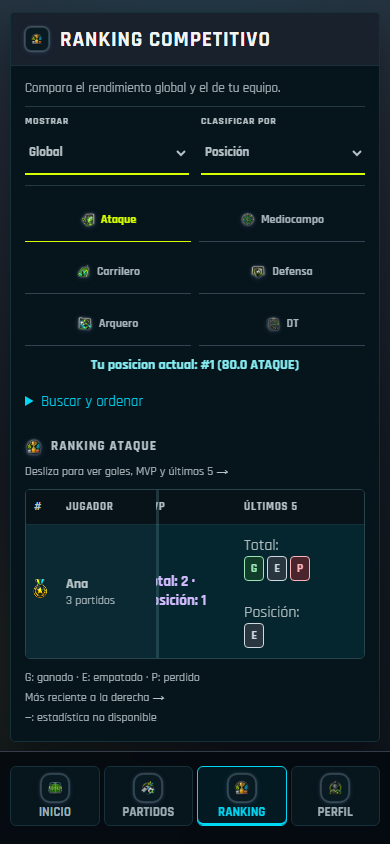
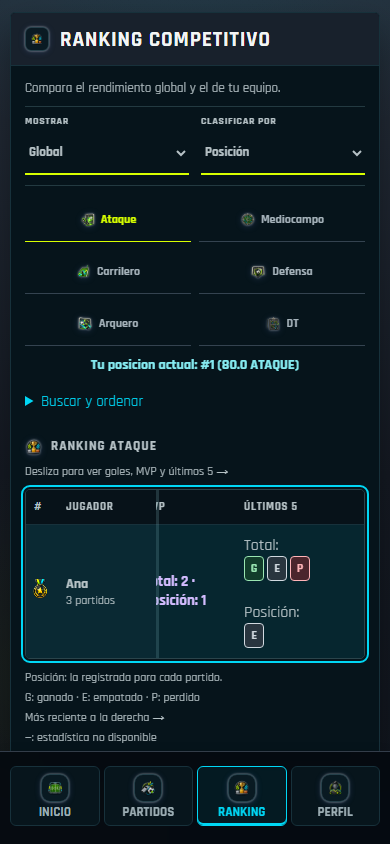
fix(ranking): explain recorded position scope

Changed region(s): [[0.0615, 0.7701, 0.5538, 0.8934], [0.9231, 0.5545, 0.9538, 0.8009], [0.0308, 0.5853, 0.0615, 0.7701]]

diff --git a/e2e/18-ranking-goals.spec.ts b/e2e/18-ranking-goals.spec.ts
@@ -16,6 +16,7 @@ for (const width of [390, 1440]) {
     await page.goto('/leaderboard');
     await expect(page.locator('.leaderboard__goals').first()).toHaveText('5');
     await page.getByLabel('Clasificar por').selectOption('ROLE');
+    await expect(page.getByText('Posición: la registrada para cada partido.')).toBeVisible();
     await expect(page.locator('.leaderboard__goals').first()).toContainText('Total: 5');
     await expect(page.locator('.leaderboard__goals').first()).toContainText('Posición: 0');
     await expect(page.locator('.leaderboard__mvp').first()).toContainText('Total: 2');
@@ -29,6 +30,11 @@ for (const width of [390, 1440]) {
     expect(await page.evaluate(() => document.documentElement.scrollWidth <= innerWidth)).toBe(true);
     const table = page.getByRole('region', { name: 'Estadísticas de jugadores, desplazamiento horizontal' });
     await table.scrollIntoViewIfNeeded();
+    if (width === 390) {
+      await table.focus();
+      await page.keyboard.press('ArrowRight');
+      await expect.poll(() => table.evaluate(element => element.scrollLeft)).toBeGreaterThan(0);
+    }
     await table.evaluate(element => { element.scrollLeft = element.scrollWidth; });
     const directory = join(process.cwd(), 'docs', 'ranking-stats-2026-11-17');
     mkdirSync(directory, { recursive: true });

diff --git a/src/app/features/ratings/pages/leaderboard/leaderboard.page.html b/src/app/features/ratings/pages/leaderboard/leaderboard.page.html
@@ -101,6 +101,7 @@
           [emptyMessage]="emptyMessage"
           [showRole]="selectedScope === 'PLATFORM'"
             [resultsScopeLabel]="selectedScope === 'TEAM' ? 'del equipo' : 'de trayectoria'"
+            [showPositionScope]="selectedScope === 'PLATFORM' && selectedMode === 'ROLE'"
           [currentPlayerId]="currentUserId">
         </app-metallic-leaderboard>
         <button

diff --git a/src/app/shared/ui/metallic-leaderboard/metallic-leaderboard.component.ts b/src/app/shared/ui/metallic-leaderboard/metallic-leaderboard.component.ts
@@ -32,6 +32,7 @@ export class MetallicLeaderboardComponent {
   @Input() currentPlayerId: string | null = null;
   @Input() showRole = false;
   @Input() resultsScopeLabel = 'de trayectoria';
+  @Input() showPositionScope = false;
   @Input() emptyMessage = 'Todavía no hay datos para este ranking.';
 
   readonly podiumIconAsset = `${this.iconBase}/ic_nav_ranking_96.png`;

diff --git a/src/app/shared/ui/metallic-leaderboard/metallic-leaderboard.component.html b/src/app/shared/ui/metallic-leaderboard/metallic-leaderboard.component.html
@@ -54,6 +54,7 @@
     </table>
   </div>
   <div *ngIf="rows.length > 0" class="leaderboard__legend">
+    <span *ngIf="showPositionScope">Posición: la registrada para cada partido.</span>
     <span>G: ganado · E: empatado · P: perdido</span>
     <span>Más reciente a la derecha →</span>
     <span>—: estadística no disponible</span>

diff --git a/docs/ranking-stats-2026-11-17/verificacion.md b/docs/ranking-stats-2026-11-17/verificacion.md
@@ -4,10 +4,14 @@ Fecha: 17/11/2026. Rama `feature/ranking-stats-20261117` en frontend y backend; 
 
 La API de ranking global/por rol y la de equipo añaden goles, MVP y resultados sin retirar campos anteriores ni cambiar el orden, rangos o autorización existentes. Global muestra trayectoria; el filtro por posición muestra trayectoria y posición; equipo usa únicamente historiales asociados al equipo. El histórico se identifica por la posición y el equipo guardados para cada participación, no por la posición actual del perfil.
 
+La posición es la registrada en la participación al cierre. En partidos con arquero rotativo no representa los minutos o cambios efectivos de posición; no se atribuyen estadísticas a posiciones que no consten en el historial. La interfaz explica que utiliza la posición registrada.
+
 Los goles proceden de `PlayerHistory` para partidos FINALIZADO, evitando duplicar datos de los distintos ratings. MVP cuenta únicamente ganadores oficiales actualmente resueltos en `Match.mvpUser`; una votación pendiente puede actualizar la cifra más tarde. Los últimos cinco resultados usan el resultado histórico del jugador; se ordenan por fecha programada y luego ID, del más antiguo al más reciente, con el último a la derecha. El cierre actual registra historiales solo para participantes confirmados, pero no se auditaron individualmente los datos históricos. La columna de resultados no recalcula marcadores antiguos.
 
 Sin historial para un alcance se informa null, distinto de cero con historial. Si hay una posición histórica no clasificable, los datos por posición quedan desconocidos; el total de trayectoria se conserva. La UI acepta también respuestas antiguas sin los campos. Dos consultas adicionales en lote por ranking, no una solicitud por jugador; el listado de resultados usa una ventana de hasta cinco registros por jugador y posición, antes de seleccionar los cinco finales.
 
-Verificación: 738 pruebas backend completas en H2 sin fallos; prueba adicional del orden con fecha igual e ID; dos pruebas de repositorio en PostgreSQL 18 temporal con datos sintéticos, sin fallos. Flyway advierte que su soporte probado llega a PostgreSQL 16. Frontend: 279 unitarias, lint y build correctos, aviso preexistente Stencil `empty-glob`; dos recorridos Chromium simulados a 390/1440 prueban global, posición y equipo, más MVP y resultados. Capturas `ranking-posicion-*.png`. PostgreSQL y frontend temporales se detuvieron.
+Verificación: 739 pruebas backend completas en H2 sin fallos ni omisiones, incluido orden con fecha igual e ID; dos pruebas de repositorio en PostgreSQL 18 temporal con datos sintéticos, sin fallos. Flyway advierte que su soporte probado llega a PostgreSQL 16. Frontend: 279 unitarias completas, 17 dirigidas tras el último ajuste, lint y build correctos, aviso preexistente Stencil `empty-glob`; dos recorridos Chromium simulados a 390/1440 prueban global, posición, equipo, MVP, resultados y desplazamiento con teclado. Capturas `ranking-posicion-*.png`. PostgreSQL y frontend temporales se detuvieron.
+
+La prueba que conecta consulta y servicio detectó que H2 devolvía el identificador de la consulta nativa como bytes. La consulta ahora lo proyecta como texto UUID; el escenario completo de goles, MVP y resultados pasó después en H2 y PostgreSQL 18 sintéticos. La suite backend completa se repitió tras el ajuste.
 
 Pendientes: integrar ambas ramas en `main`, verificar con datos reales y beta, lector de pantalla y teléfono físico. El cluster temporal PostgreSQL con datos sintéticos quedó detenido en `.tmp/ranking-pg-20261117`; no contiene datos reales. No se modificaron históricos ni se desplegó.
